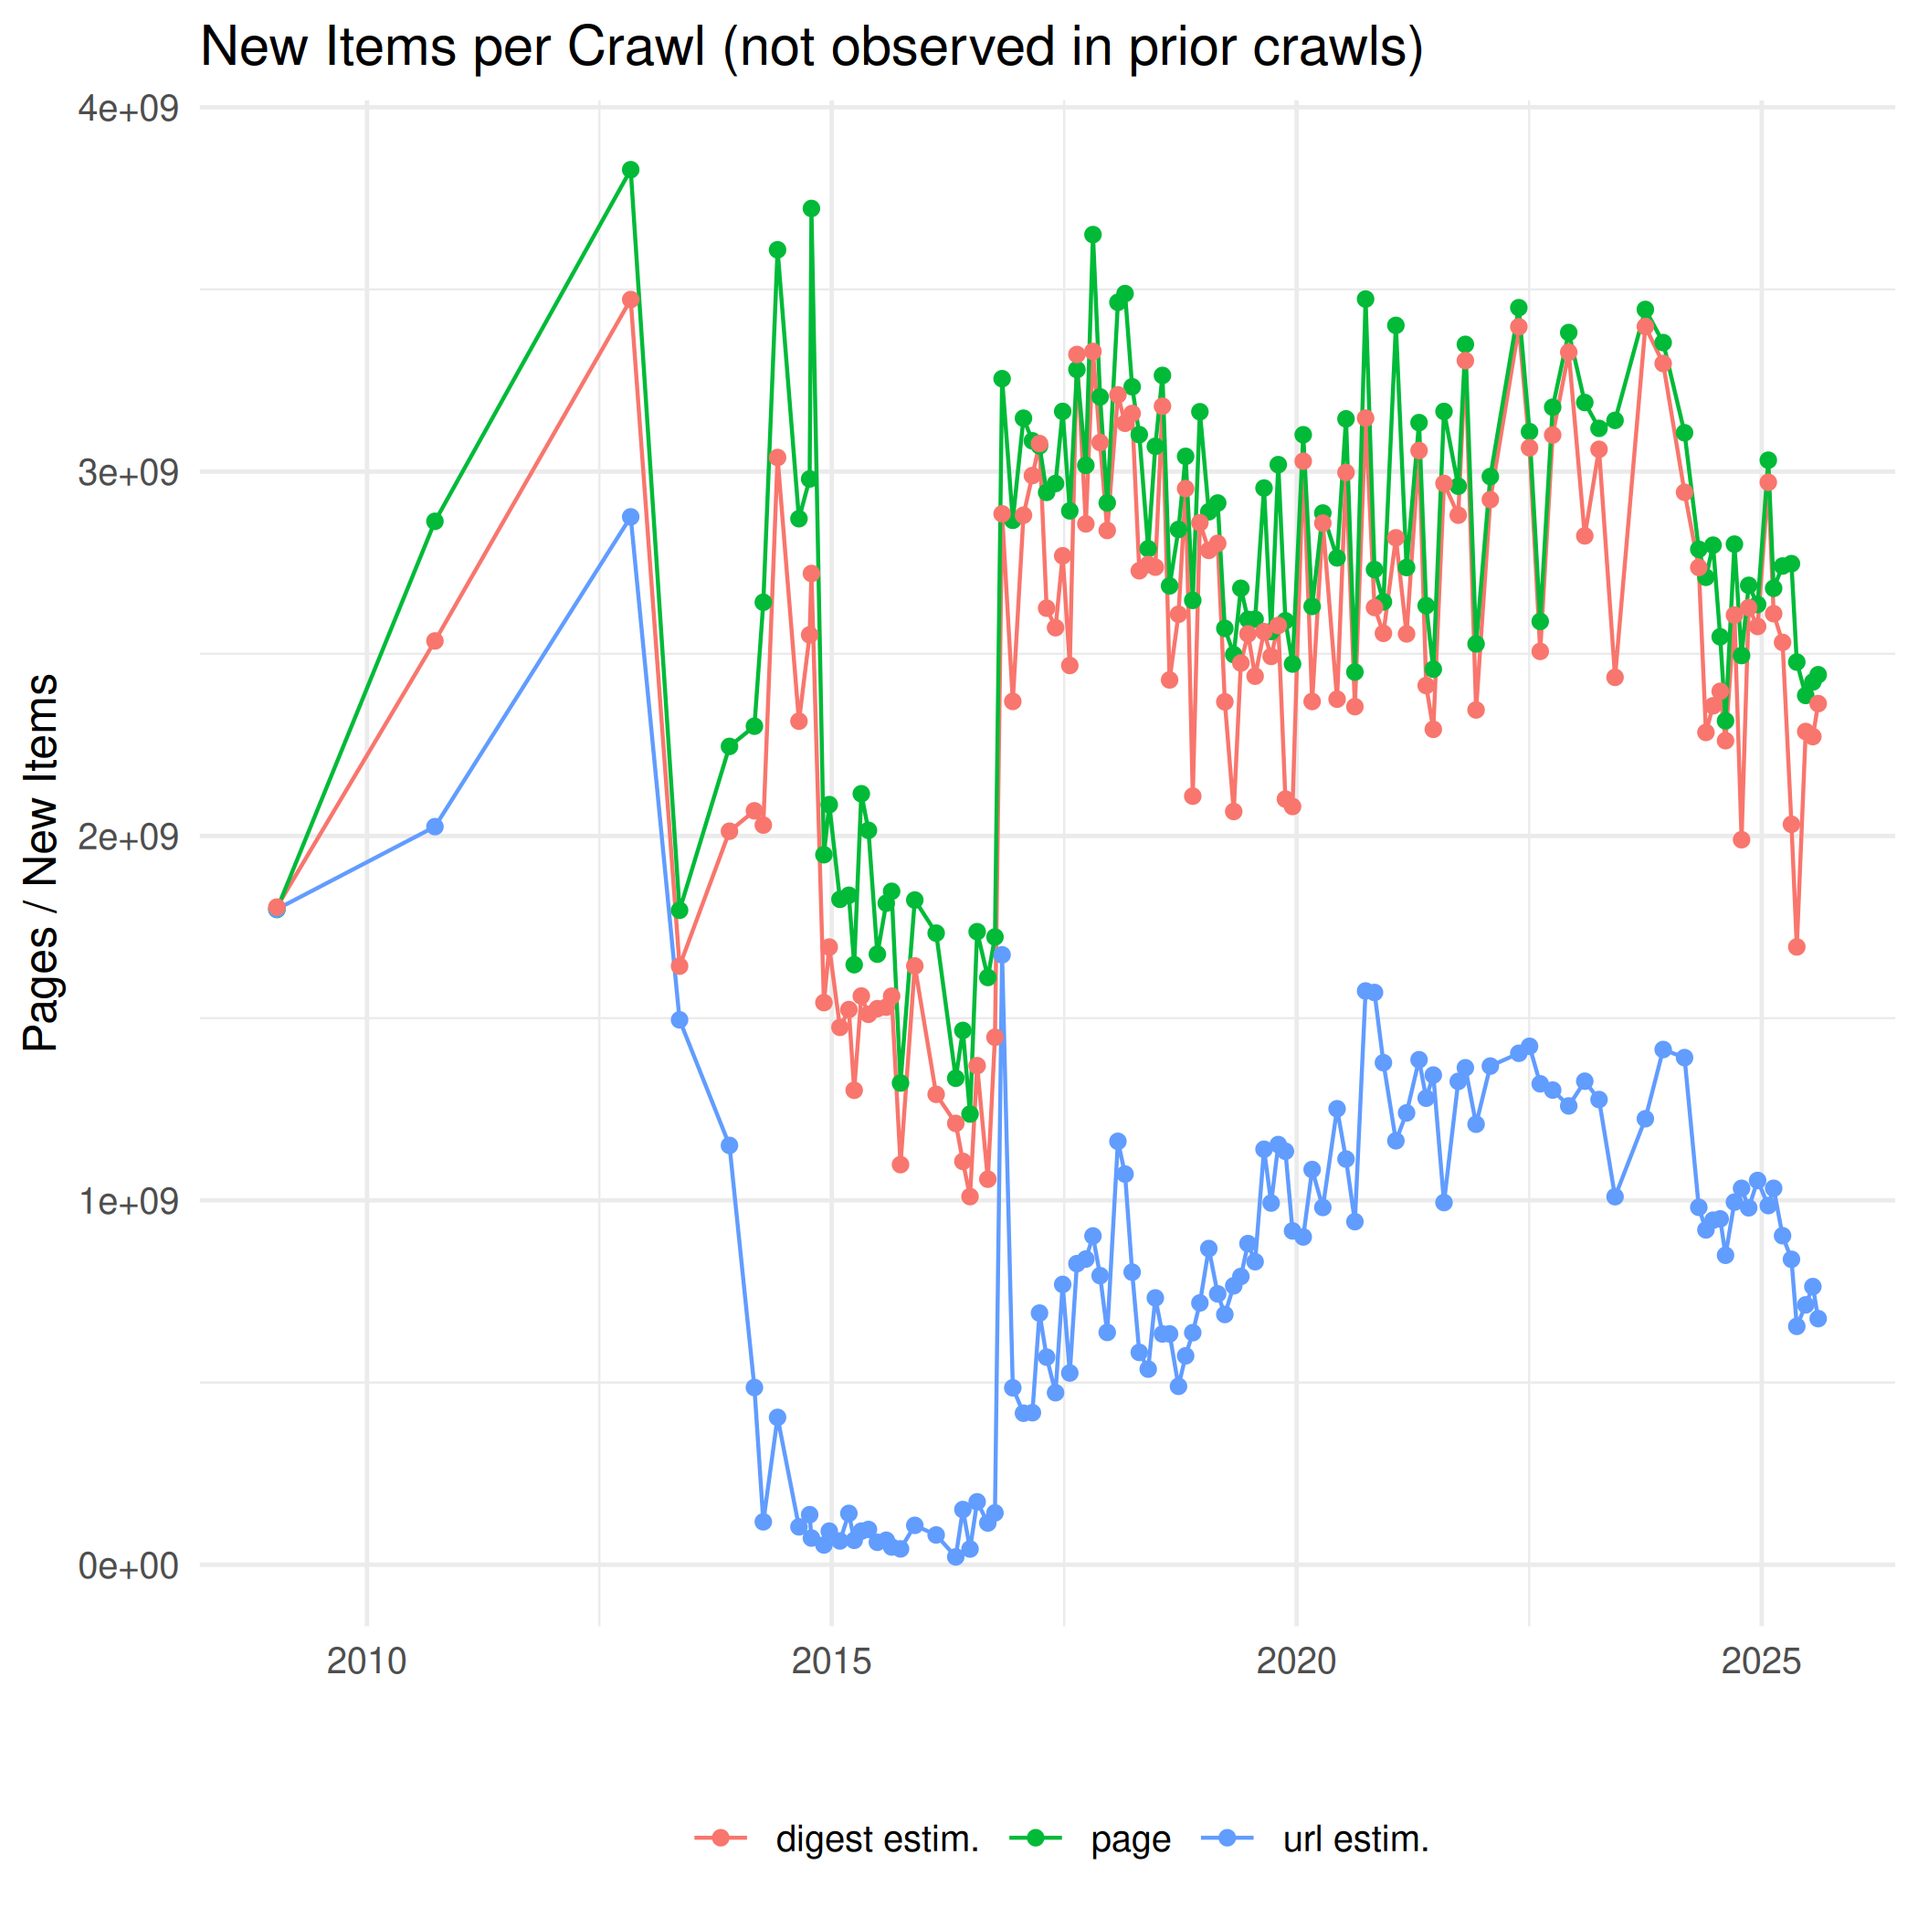
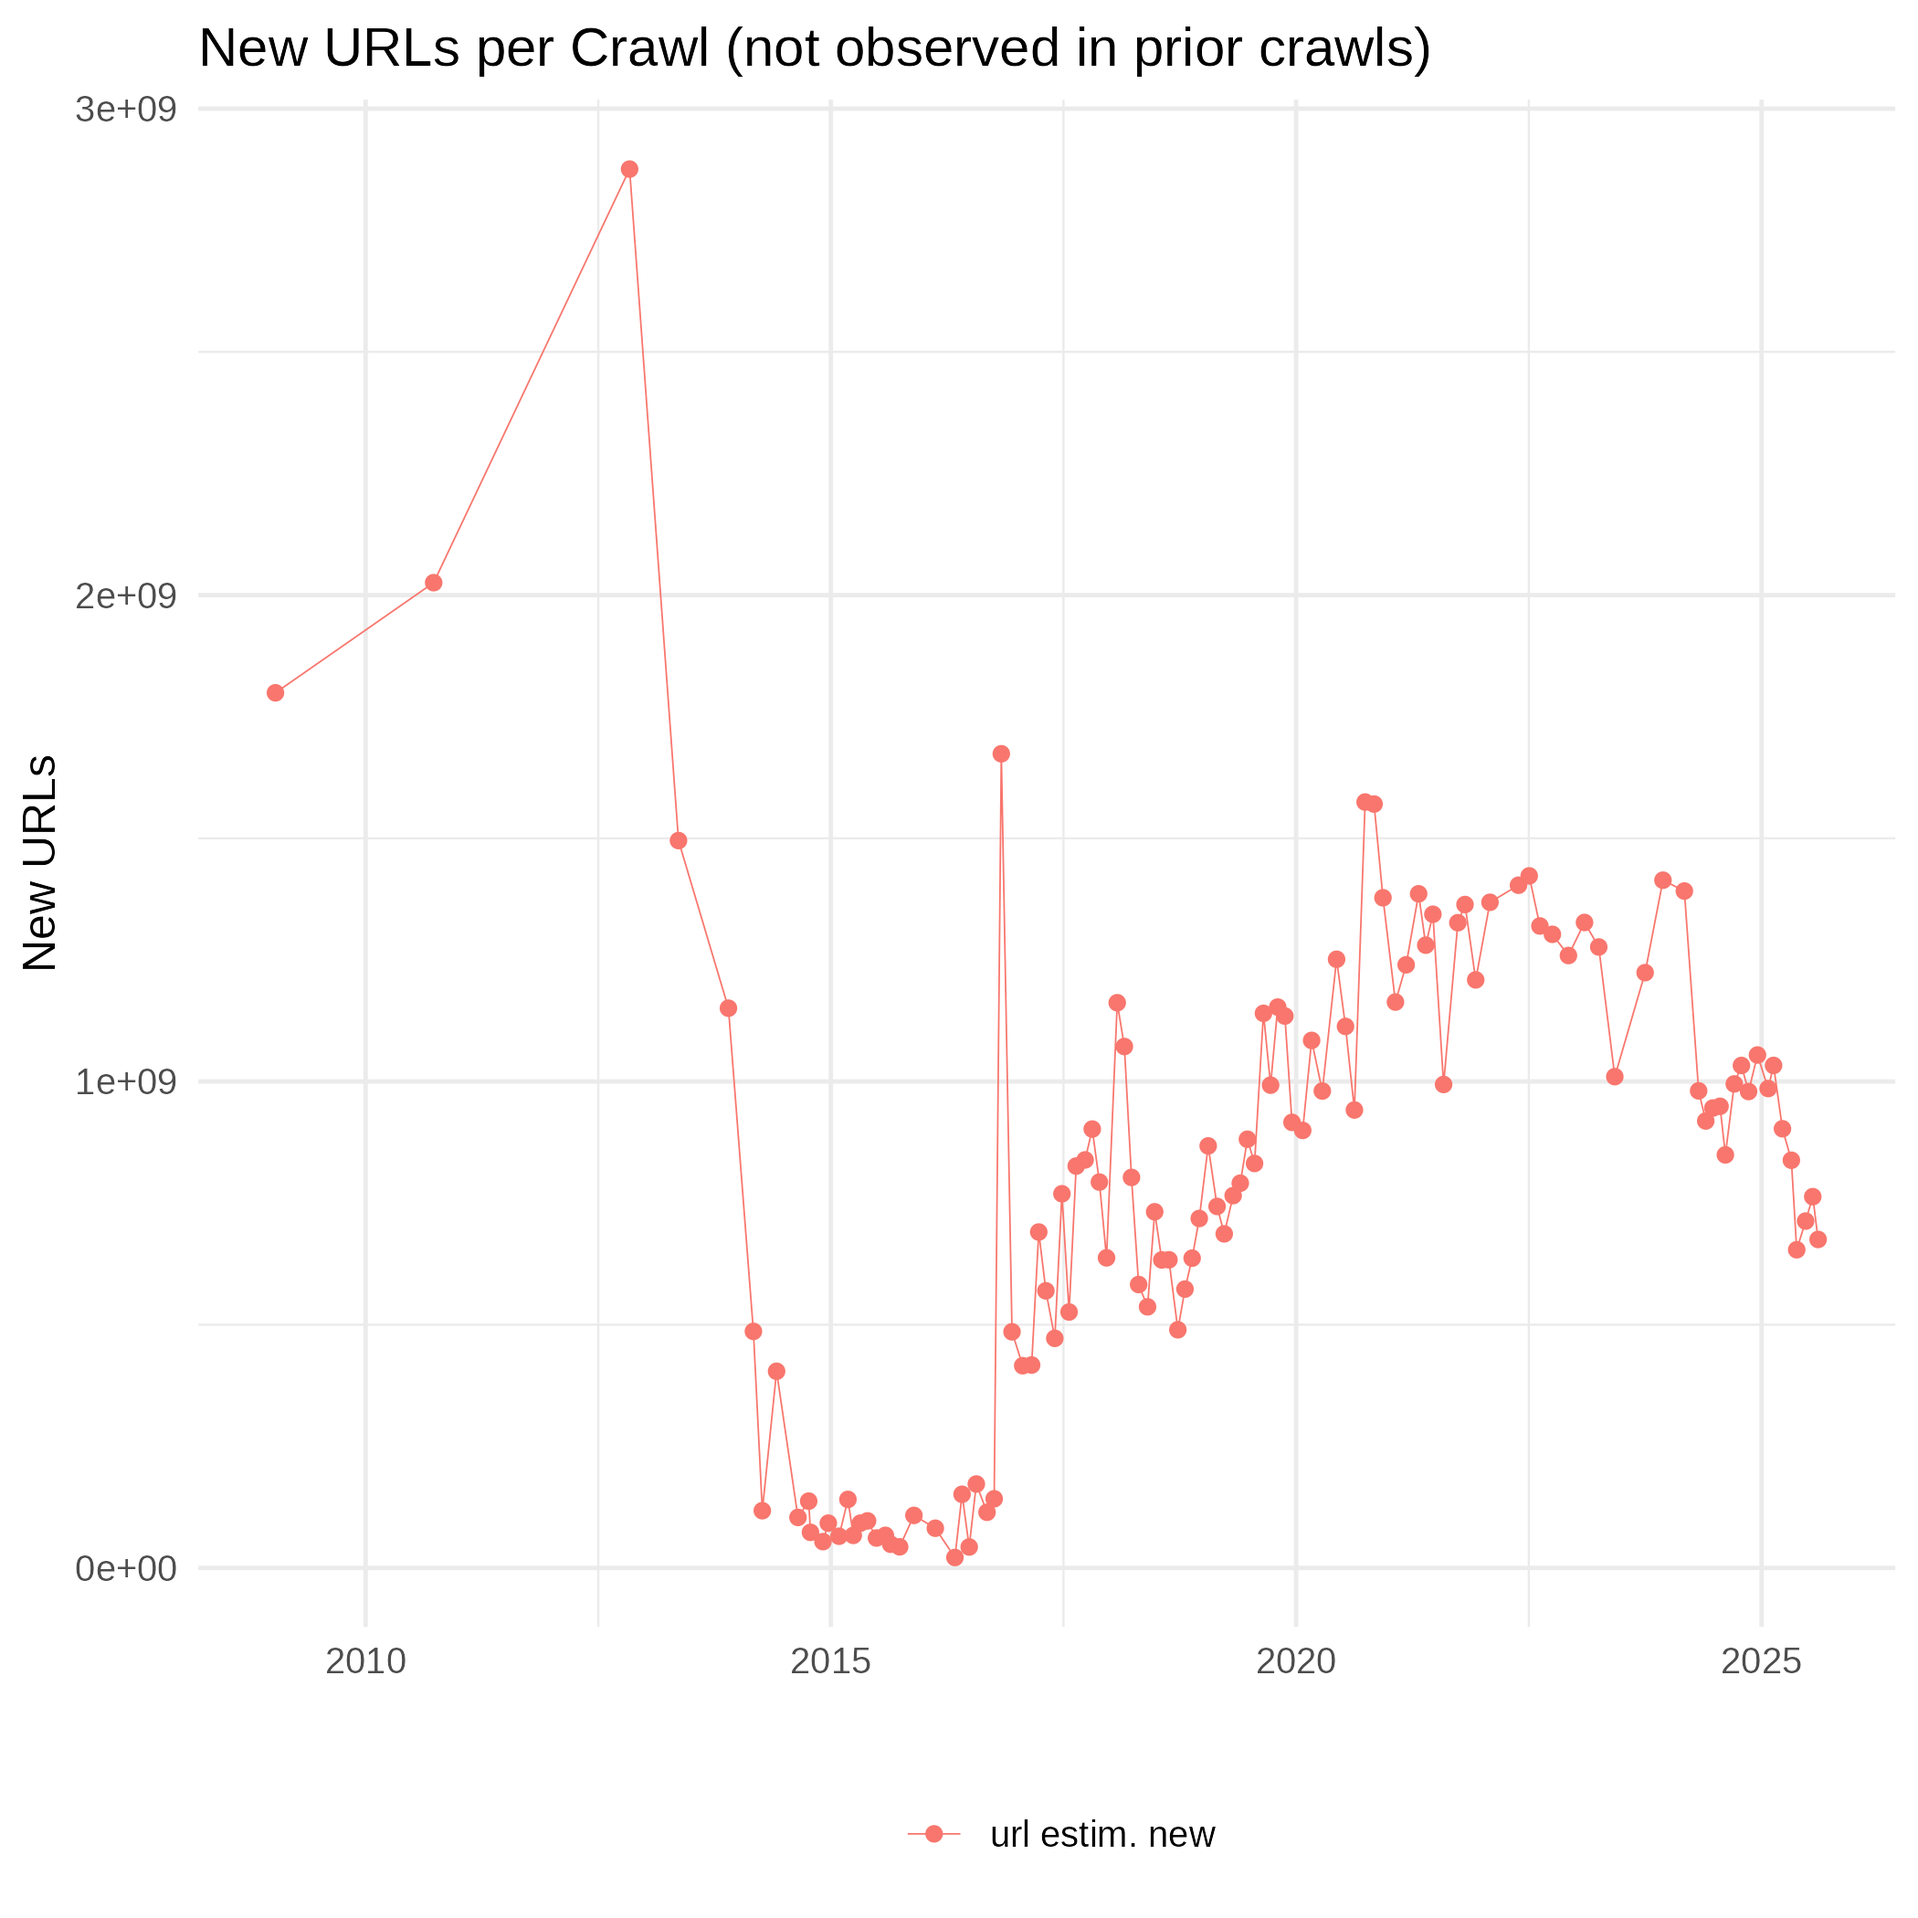
Improve plot of new URLs per crawl
Show only URLs in the plot of "new items" to make it more readable.
Numbers of new "pages" (aka. "captures") and "digests" are not
really informative: it's just the size of the crawls resp. a number
close to the size as there are very few exact duplicates with
identical content digests. Drop the two item types and keep only
the URLs.

diff --git a/plot/crawl_size.py b/plot/crawl_size.py
@@ -171,18 +171,11 @@ class CrawlSizePlot(CrawlPlot):
                        'Pages / Unique Items Cumulative',
                        'crawlsize/cumulative.png',
                        data_export_csv='crawlsize/cumulative.csv')
-        # -- new items per crawl
-        row_types = ['page', 'url estim. new',
-                     'digest estim. new']
-        self.size_plot(self.size_by_type, row_types, ' new$',
-                       'New Items per Crawl (not observed in prior crawls)',
-                       'Pages / New Items', 'crawlsize/monthly_new.png',
-                       data_export_csv='crawlsize/monthly_new.csv')
         # -- new URLs per crawl
         row_types = ['url estim. new']
-        self.size_plot(self.size_by_type, row_types, ' new$',
+        self.size_plot(self.size_by_type, row_types, '',
                        'New URLs per Crawl (not observed in prior crawls)',
-                       '', 'crawlsize/monthly_new_urls.png',
+                       'New URLs', 'crawlsize/monthly_new.png',
                        data_export_csv='crawlsize/monthly_new.csv')
         # -- cumulative URLs over last N crawls (this and preceding N-1 crawls)
         row_types = ['url', '1 crawl',  # 'url' replaced by '1 crawl'

diff --git a/plots/crawlsize.md b/plots/crawlsize.md
@@ -27,11 +27,11 @@ Every monthly crawl is a sample of the web and we try to make every monthly snap
 
 ![Cumulative size of monthly crawl archives since 2013](./crawlsize/cumulative.png)
 
-The next plot shows the difference in the cumulative size to the preceding crawl. In other words, the amount of new URLs or new content not observed in any of the preceding monthly crawls.
+The next plot shows the difference in the cumulative size of URLs to the preceding crawl. In other words, the amount of new URLs, not observed in any of the preceding crawls.
 
-![New Items per Crawl, not observed in prior crawls](./crawlsize/monthly_new.png)
+![New URLs per Crawl, not observed in prior crawls](./crawlsize/monthly_new.png)
 
-([New items per crawl as CSV](./crawlsize/monthly_new.csv))
+([New URLs per crawl as CSV](./crawlsize/monthly_new.csv))
 
 How many unique items (in terms of URLs or unique content by digest) are covered by the last n crawls? The coverage over certain time intervals went down early 2015 when continuous donations of verified seeds stopped. Since autumn 2016 we are able to extend the crawl by our own, and we try to increase the coverage for the last n crawls.
 
